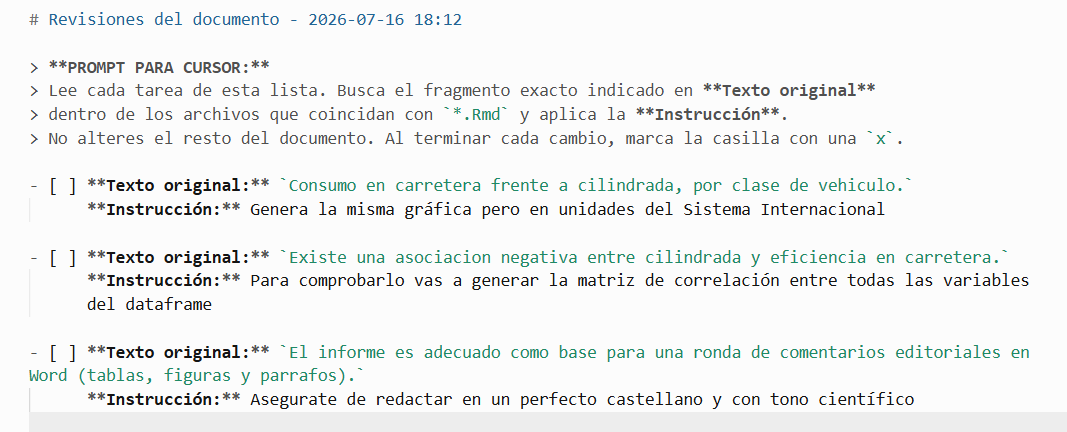
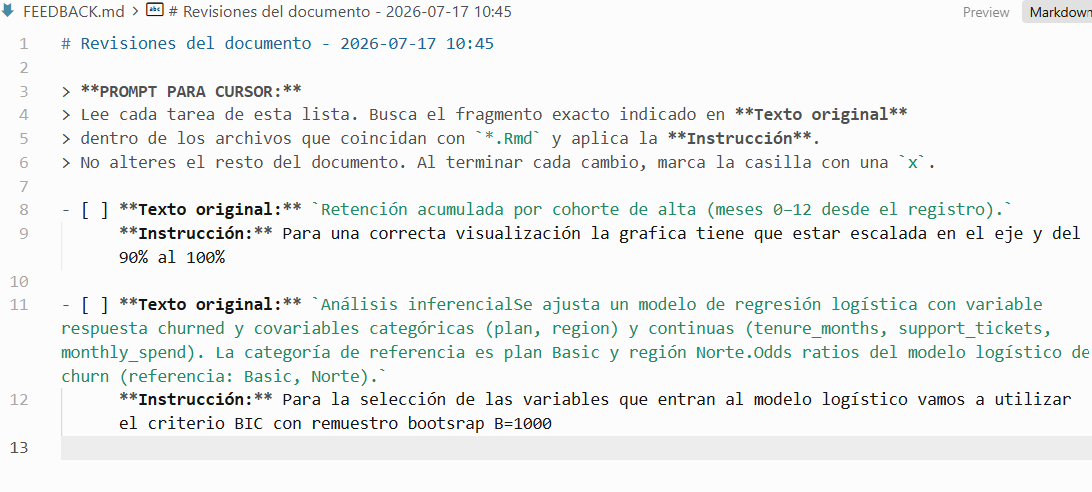
Update README screenshots with retention demo workflow.
Replace Word comment and FEEDBACK.md captures from the new informe demo.

diff --git a/README.md b/README.md
@@ -7,14 +7,14 @@ Paquete **R** + paquete **Python** local: convierte comentarios nativos de Word 
 
 ## Antes, puente y despues
 
-**Antes** — comentarios nativos en el Word (figura + conclusiones):
+**Antes** — comentarios nativos en el Word (figura + modelo):
 
 <p align="center">
-  <img src="man/figures/1.png" alt="Comentario en Word sobre una figura" width="720" />
+  <img src="man/figures/1.png" alt="Comentario en Word sobre la curva de retención por cohorte" width="720" />
 </p>
 
 <p align="center">
-  <img src="man/figures/2.png" alt="Comentarios en Word sobre las conclusiones" width="720" />
+  <img src="man/figures/2.png" alt="Comentario en Word sobre la selección de variables del modelo logístico" width="720" />
 </p>
 
 **Puente** — extraccion local a Markdown: